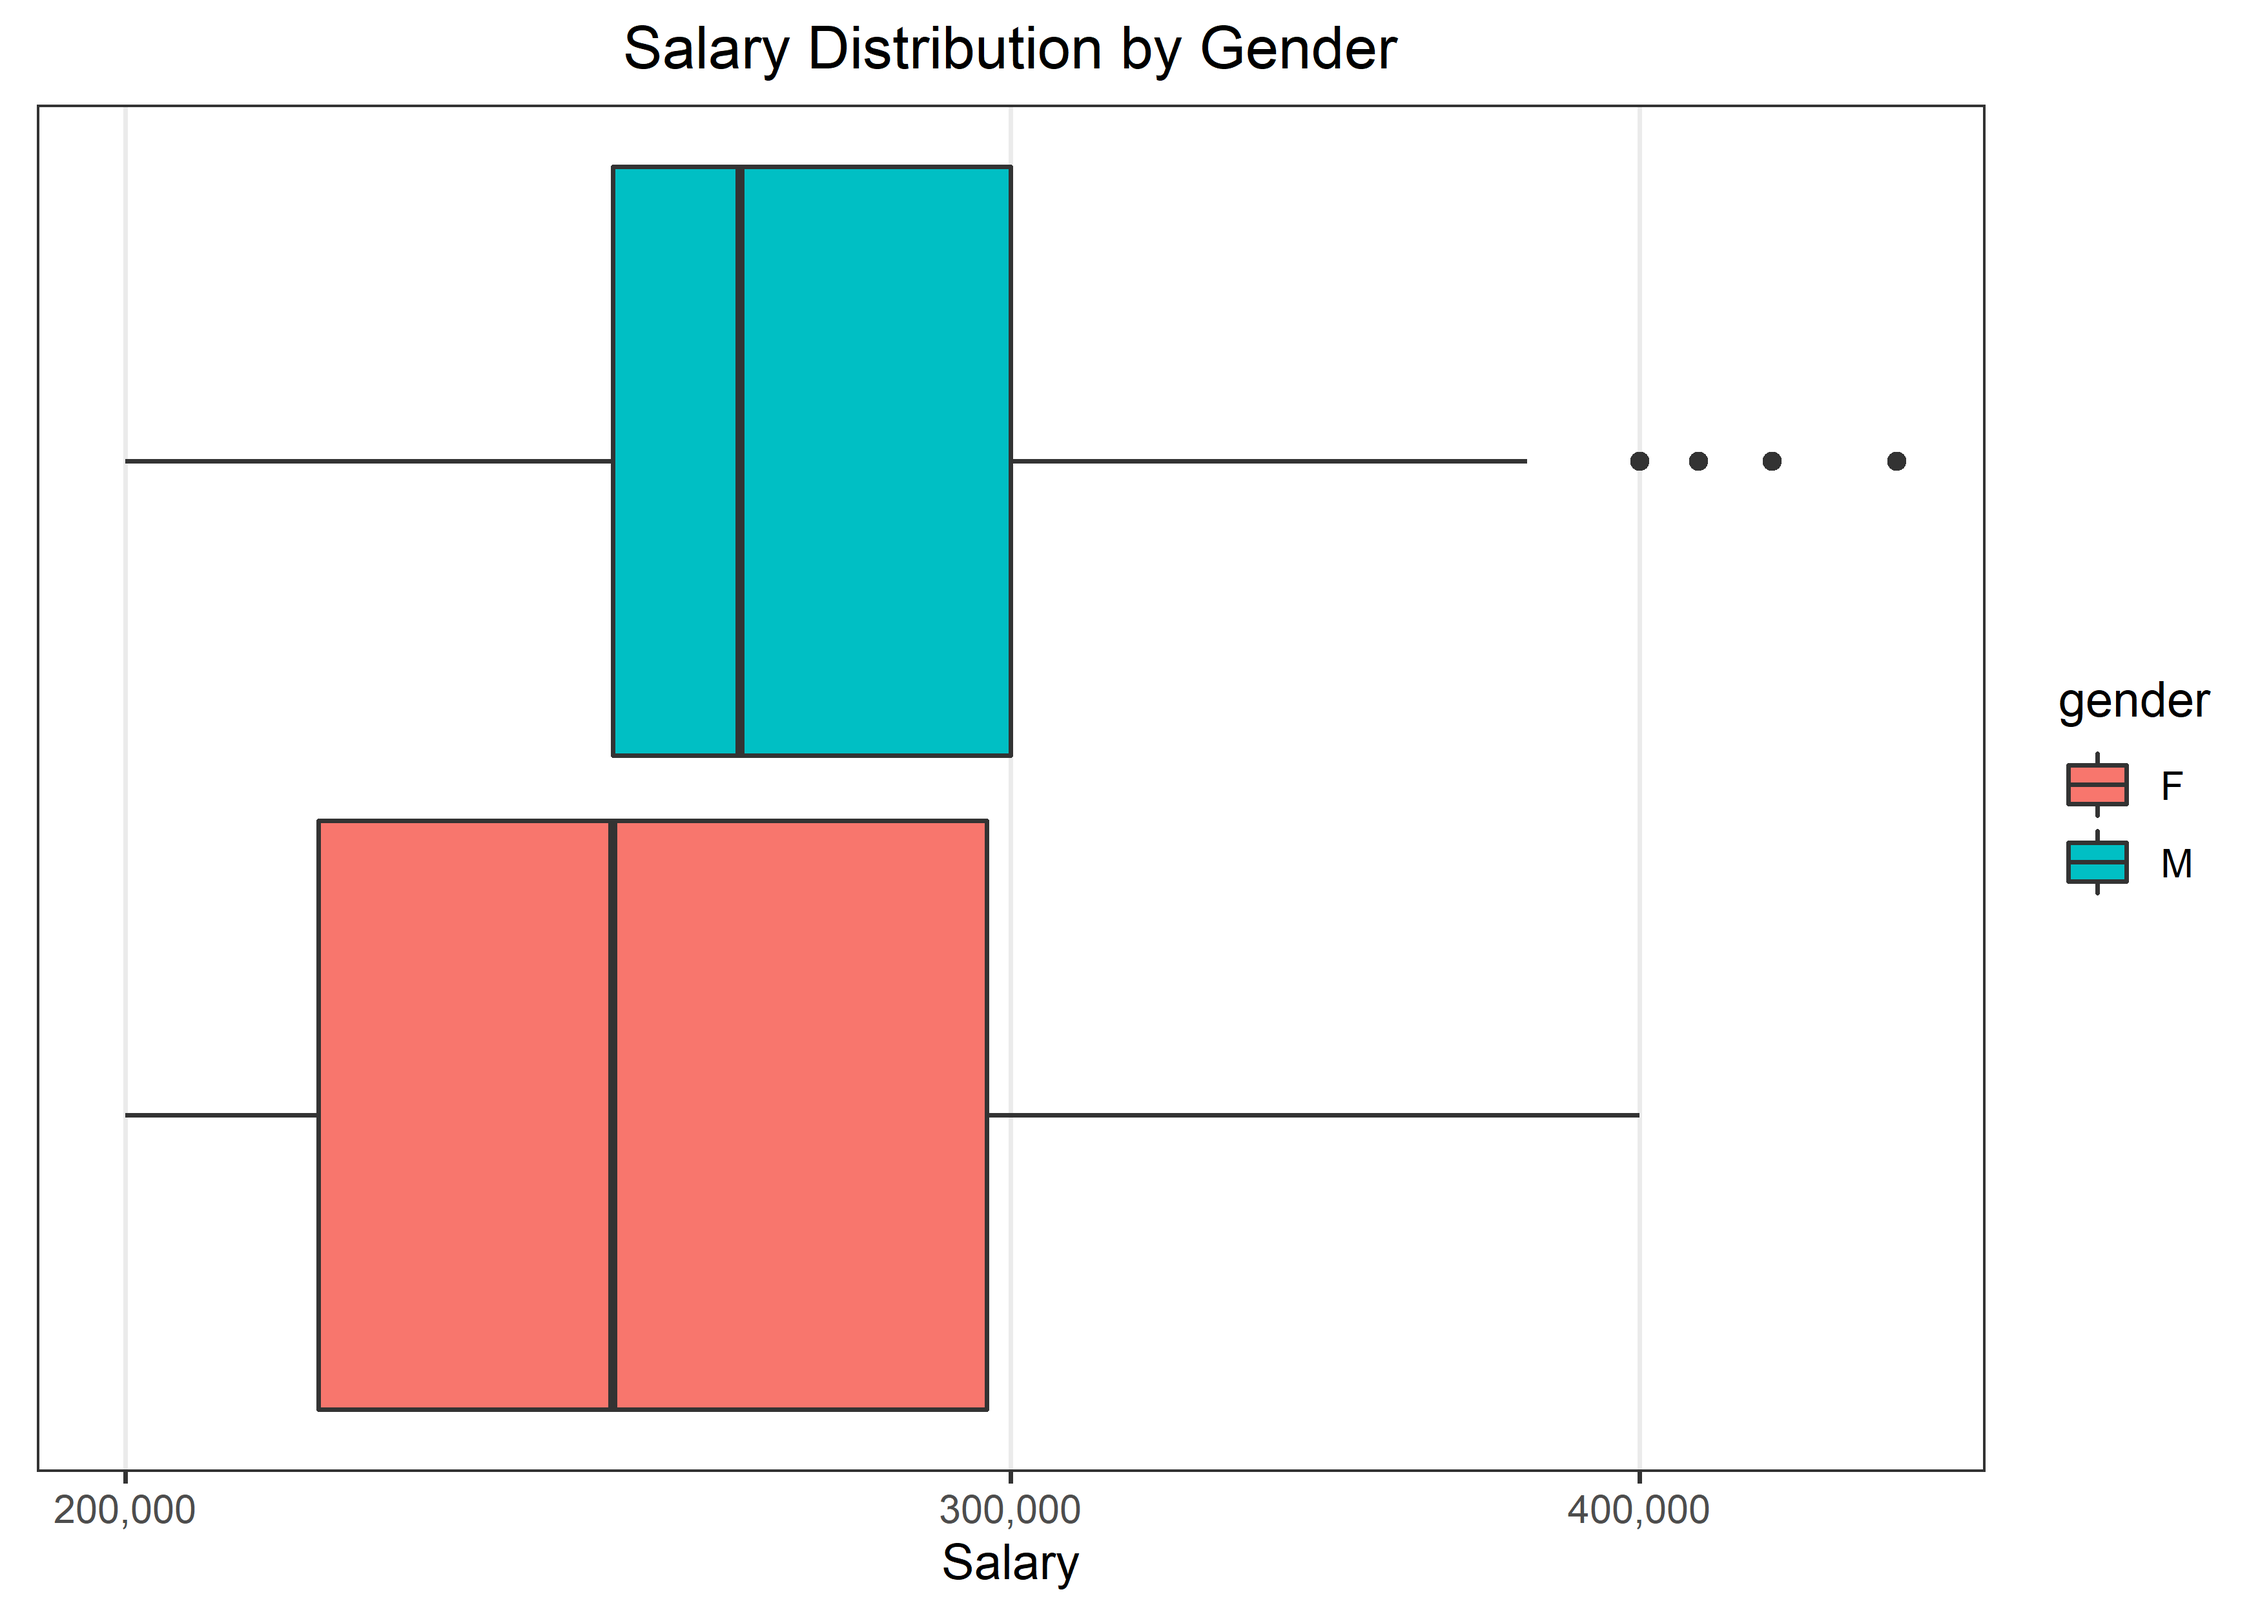
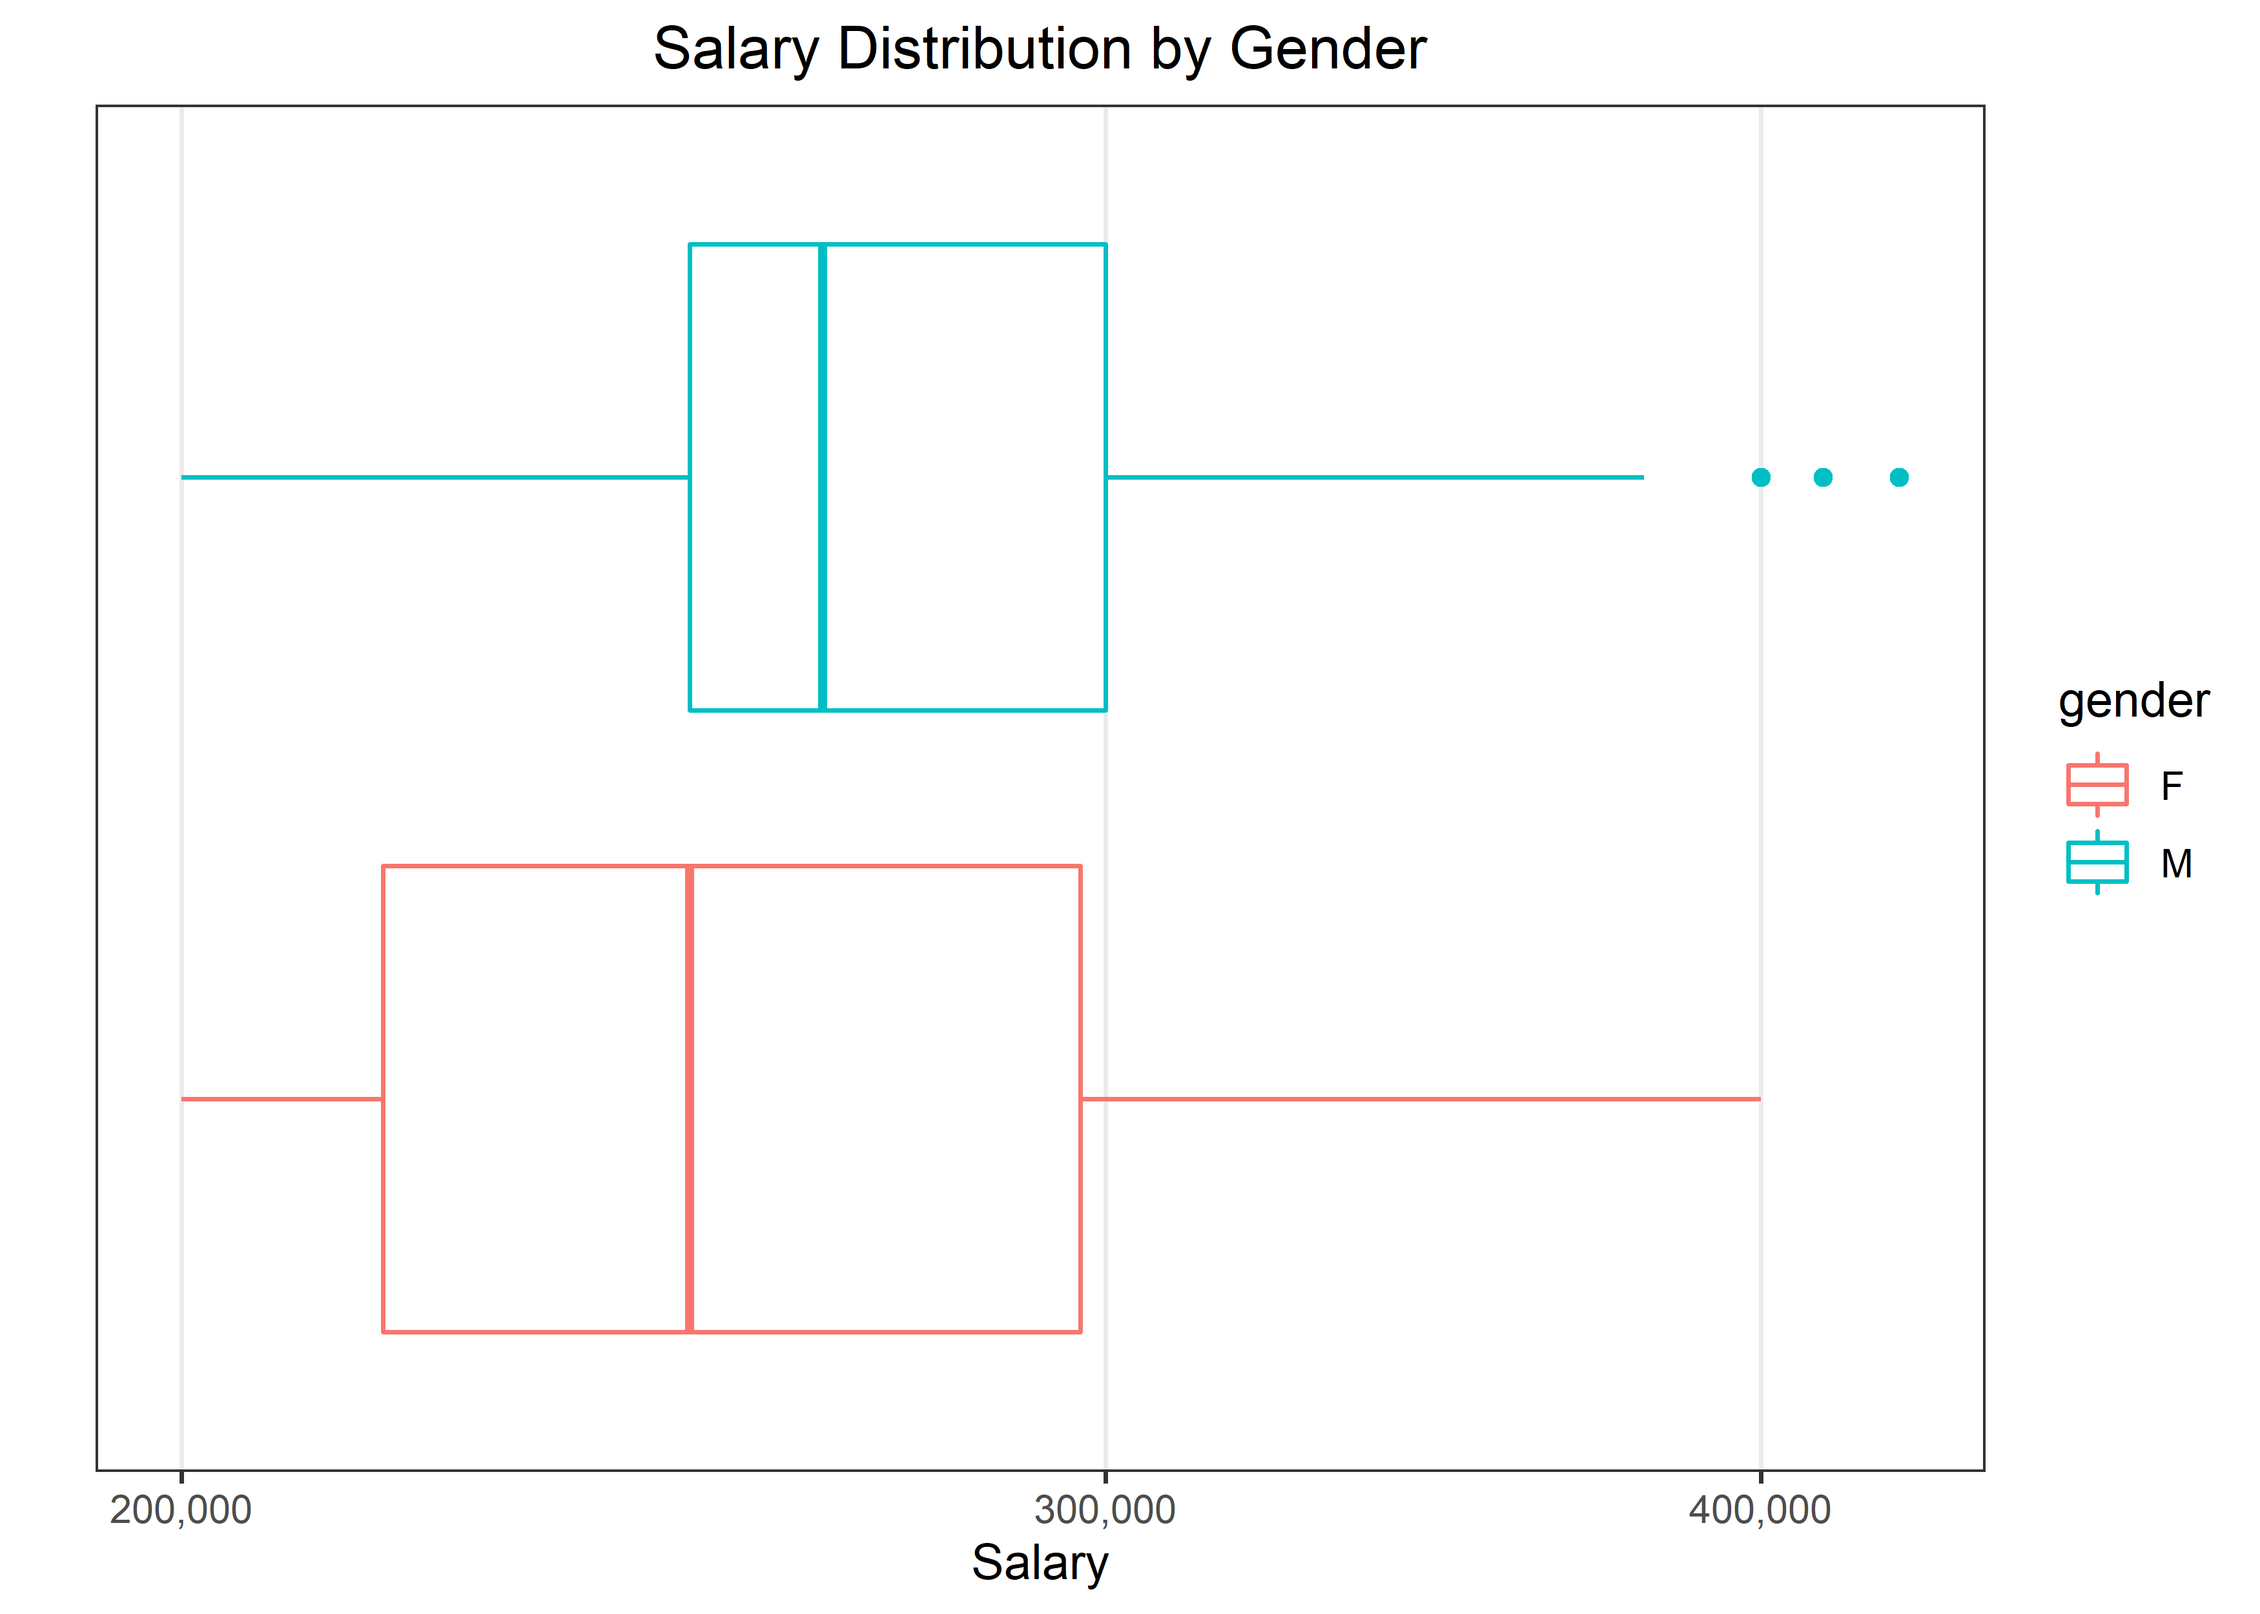
Plot 1 and 2 for 3rd task

diff --git a/Masters Project Fall Placement/Masters-Project-Fall-Placement.md b/Masters Project Fall Placement/Masters-Project-Fall-Placement.md
@@ -9,6 +9,16 @@ Matthew
 -   <a href="#outliers" id="toc-outliers">Outliers</a>
 -   <a href="#who-are-these-graduates" id="toc-who-are-these-graduates">Who
     are these graduates?</a>
+    -   <a href="#1-salary-distribution-by-gender"
+        id="toc-1-salary-distribution-by-gender">1. Salary Distribution by
+        Gender</a>
+    -   <a
+        href="#2-percent-specialization-in-higher-secondary-education-by-gender"
+        id="toc-2-percent-specialization-in-higher-secondary-education-by-gender">2.
+        Percent Specialization in Higher Secondary Education by Gender</a>
+-   <a href="#who-are-most-likely-to-get-placed"
+    id="toc-who-are-most-likely-to-get-placed">Who are most likely to get
+    placed?</a>
 
 ``` r
 fall <- read_csv("C:/Users/Matthew Hondrakis/OneDrive/Documents/DataAnalysis/Masters Project Fall Placement/fall2022Placement.csv")
@@ -136,7 +146,7 @@ As we can see, we have *N/A* values for:
 
 -   *specialisation* (Area of speciality): **1**
 
--   *hsc_p* (Higher Educated Percentile): **2**
+-   *hsc_p* (Higher Secondary Education percentile): **2**
 
 -   *salary* (Salary of job offered): **67**
 
@@ -266,7 +276,8 @@ As we can see, all missing values for *salary* are from individuals that
 were not offered a job. Since the Data Dictionary defines *Salary* as
 “Salary of job offered”, individuals that were not offered a job, do not
 have a salary from an offer. Therefore, *salary* will be 0 for
-individuals that were not offered a job.
+individuals that were not offered a job. We will then drop any rows that
+had missing information, which in total is only **4**.
 
 ``` r
 clean_fall <- fall %>% 
@@ -318,18 +329,7 @@ updated_fall <- clean_fall %>%
 
 # Who are these graduates?
 
-``` r
-updated_fall %>% 
-  keep(is.numeric) %>% 
-  select(-sl_no) %>% 
-  GGally::ggpairs()
-```
-
-    ## Registered S3 method overwritten by 'GGally':
-    ##   method from   
-    ##   +.gg   ggplot2
-
-![](Masters-Project-Fall-Placement_files/figure-gfm/unnamed-chunk-6-1.png)<!-- -->
+A quick check on the **correlations** between **numeric** variables.
 
 ``` r
 updated_fall %>% 
@@ -365,23 +365,10 @@ updated_fall %>%
     ## 20   sl_no  etest_p  0.03951716
     ## 21   sl_no    mba_p  0.01337281
 
-``` r
-updated_fall %>% 
-  filter(status == "Placed") %>% 
-  ggplot(aes(salary, fill = gender)) + 
-  geom_boxplot() +
-  scale_x_log10(label = comma_format()) +
-  labs(x = "Salary", title = "Salary Distribution by Gender") +
-  theme(axis.text.y = element_blank(),
-        axis.ticks.y = element_blank(),
-        panel.grid.major.y = element_blank())
-```
-
-![](Masters-Project-Fall-Placement_files/figure-gfm/unnamed-chunk-8-1.png)<!-- -->
-
 Below I will create a function to quickly plot **counts** of factor
 variables. It is often advised to make a function if one foresees using
-the same plot/code often.
+the same plot/code often. Since this dataset contains many **factor**
+variables, I assume there will be a lot of factor count plotting.
 
 ``` r
 count_plot <- function(x){
@@ -407,7 +394,7 @@ count_plot(degree_t) +
 
 ``` r
 (count_plot(hsc_s) +
-   labs(y = "", x = "", title = "Higher Ed Specialisation") +
+   labs(y = "", x = "", title = "Higher Education Specialisation") +
    theme(panel.grid.major.y = element_blank())) /
 (count_plot(workex) +
    labs(y = "", x = "", title = "Work Experience") +
@@ -415,3 +402,54 @@ count_plot(degree_t) +
 ```
 
 ![](Masters-Project-Fall-Placement_files/figure-gfm/character_plot-2.png)<!-- -->
+
+## 1. Salary Distribution by Gender
+
+``` r
+updated_fall %>% 
+  filter(status == "Placed") %>% 
+  ggplot(aes(salary, gender, color = gender)) + 
+  geom_boxplot() +
+  scale_x_log10(label = comma_format()) +
+  labs(y = "", x = "Salary", title = "Salary Distribution by Gender") +
+  theme(axis.text.y = element_blank(),
+        axis.ticks.y = element_blank(),
+        panel.grid.major.y = element_blank())
+```
+
+![](Masters-Project-Fall-Placement_files/figure-gfm/unnamed-chunk-7-1.png)<!-- -->
+
+## 2. Percent Specialization in Higher Secondary Education by Gender
+
+Given the unequal
+
+``` r
+updated_fall %>%
+  group_by(gender) %>% 
+  count(hsc_s) %>% 
+  mutate(prop = n/sum(n)) %>% 
+  ggplot(aes(prop, gender, 
+             fill = fct_reorder2(hsc_s, gender, prop, .desc = FALSE))) +
+  geom_col(color = "black", position = position_dodge()) +
+  geom_text(aes(label = paste0(round(prop*100,1), "%")), 
+            position = position_dodge2(0.9), hjust = 1, size = 3.5) +
+  labs(fill = "", x = "", y = "", 
+       title = "Percent Specialization in Higher Secondary Education by Gender") +
+  scale_x_continuous(label = percent_format(), breaks = seq(0,0.5,0.1)) +
+  theme(panel.grid.major.y = element_blank())
+```
+
+![](Masters-Project-Fall-Placement_files/figure-gfm/unnamed-chunk-8-1.png)<!-- -->
+
+# Who are most likely to get placed?
+
+``` r
+updated_fall %>% 
+  ggplot(aes(etest_p, status, color = status)) +
+  geom_boxplot() +
+  geom_jitter(alpha = 0.5, height = 0.1) +
+  labs(y = "", x = "Employability Test Percentile", 
+       title = "Employability Test Percentile by Job Placement")
+```
+
+![](Masters-Project-Fall-Placement_files/figure-gfm/unnamed-chunk-9-1.png)<!-- -->
